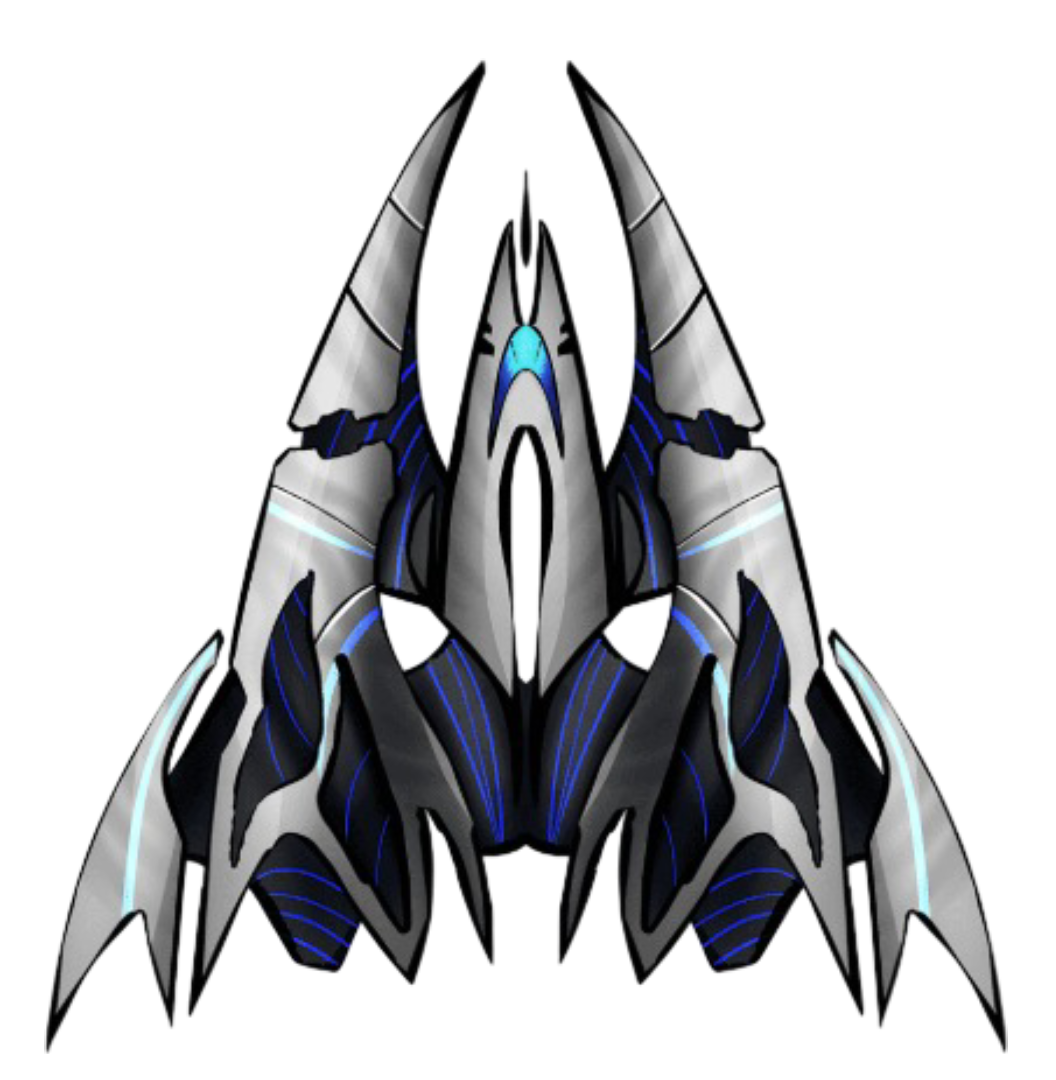
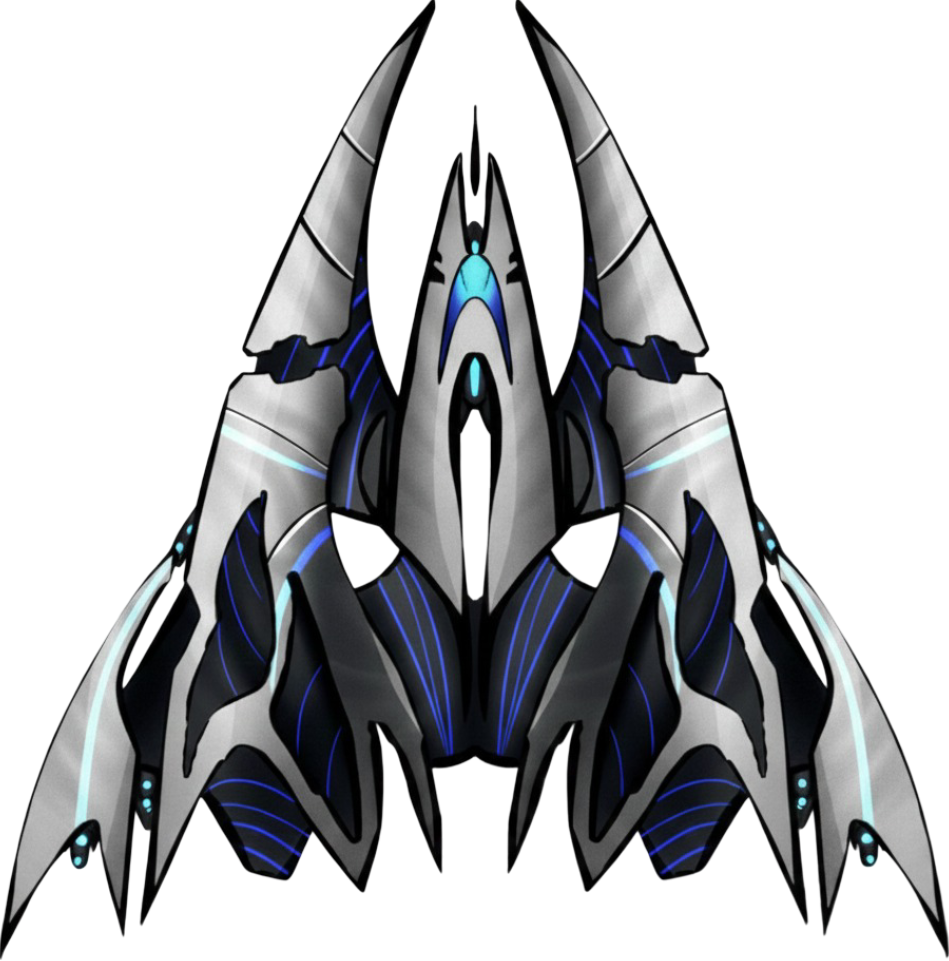
melhoria qualidade imagem nave, aumento de movimentaçao horizontal nave.

diff --git a/script/Player.js b/script/Player.js
@@ -25,7 +25,7 @@ class Player extends GameObject {
         // Fatores de Arrasto e Deslocamento
         this.lateralDrag = 0.8; // Quão a nave "escorrega" lateralmente ao inclinar
         this.verticalDrag = 0.6; // Quão a nave "cai" ao inclinar
-        this.movementDampeningX = 0.7; // Reduz a velocidade de movimento horizontal
+        this.movementDampeningX = 1; // Reduz a velocidade de movimento horizontal
         this.movementDampeningY = 1.0; // Mantém a velocidade de movimento vertical (ou ajuste para reduzir)
 
         // 🚨 NOVOS FATORES para o efeito de PERSPECTIVA 3D NO DRAW

diff --git a/script/start_game.js b/script/start_game.js
@@ -62,7 +62,12 @@ function initGame() {
         "../assets/img/nave.png",
         500 
     );
-
+    
+    // 🚨 CORREÇÃO: Inicializa a variável global 'lastTime' para sincronizar o gameLoop
+    if (typeof lastTime !== 'undefined') {
+        lastTime = performance.now();
+    }
+    
     // 2. Inicia o loop principal do jogo
     requestAnimationFrame(gameLoop);
 }
